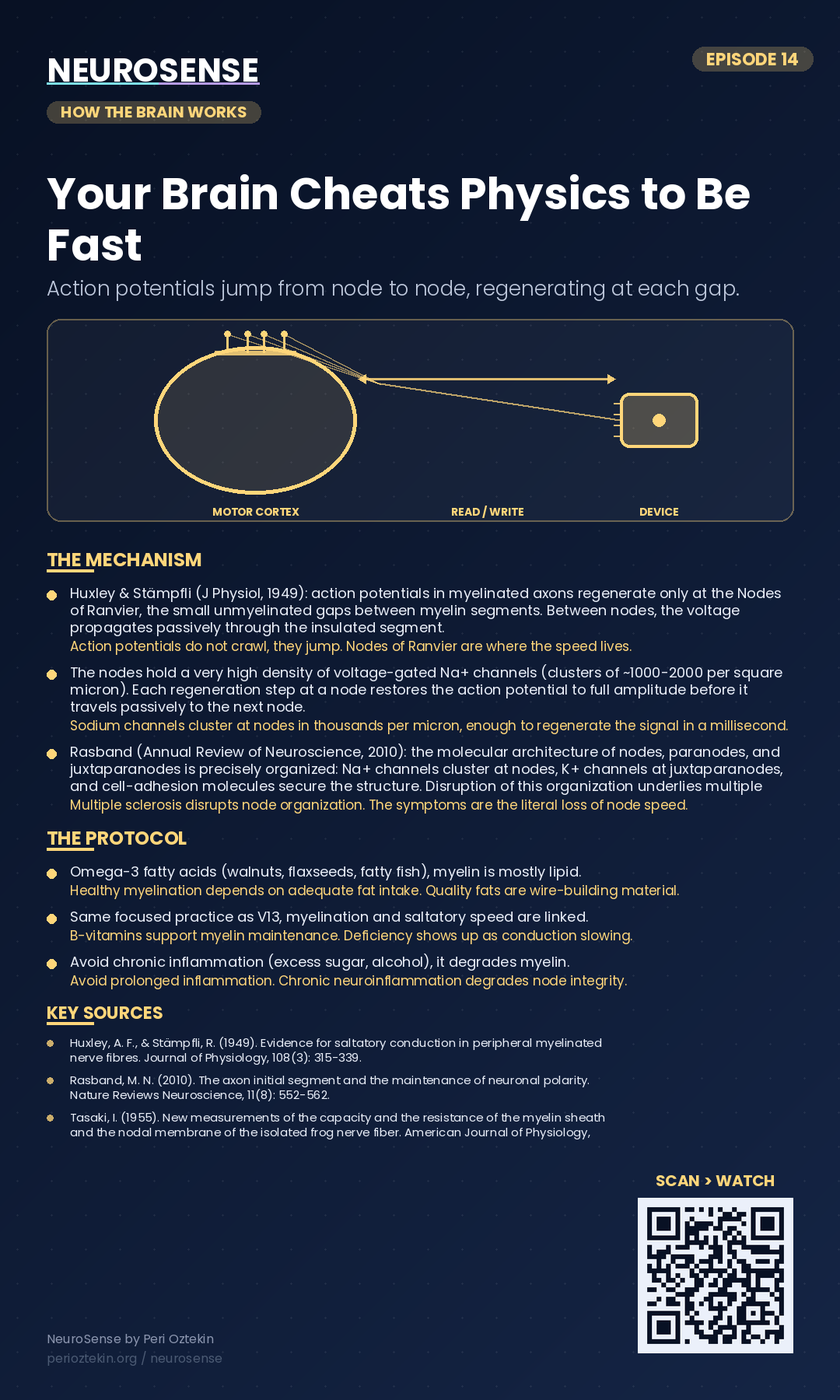
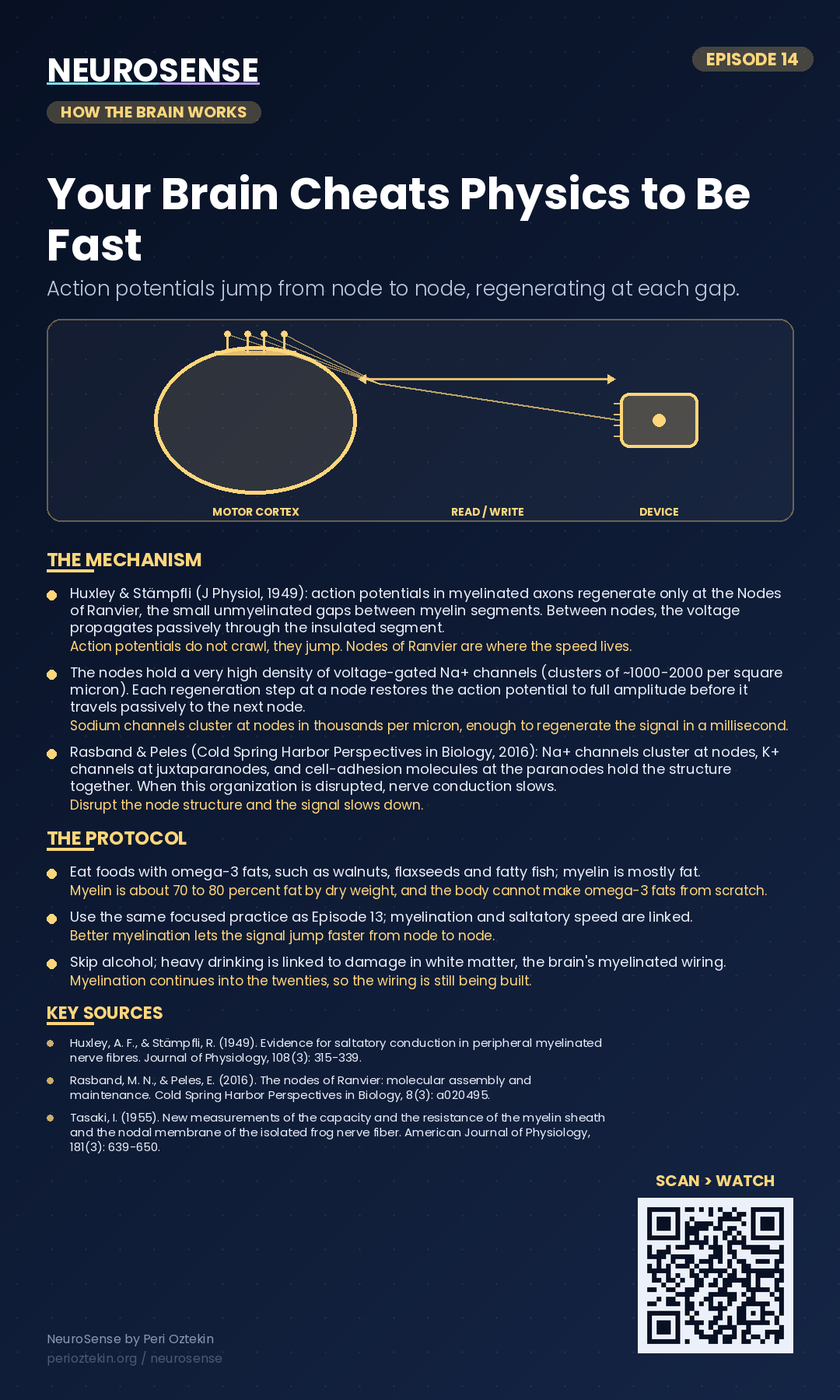
Fix sources and unsupported claims on NeuroSense episodes 11-17, 20, 30, 76, 89 and 99

diff --git a/neurosense/17/index.html b/neurosense/17/index.html
@@ -111,10 +111,10 @@
       <div class="ep-content">
         <h2>The Science</h2>
         <ul class="ep-list">
-          <li>Kjaer et al. (Cognitive Brain Research, 2002): PET imaging during Yoga Nidra meditation (a structured form of NSDR) measured a 65% increase in striatal dopamine release, comparable to that produced by stimulant drugs but without the receptor downregulation.</li>
-          <li>Datta &amp; MacLean (Neuroscience &amp; Biobehavioral Reviews, 2007): the consolidation literature shows that hippocampal replay of recently learned material occurs during quiet wakeful rest, not only during sleep. Brief intentional rest after learning measurably improves recall.</li>
-          <li>Mednick et al. (Nature Neuroscience, 2003): even short rest or daytime nap windows produce measurable performance improvements on perceptual and motor learning tasks. The brain consolidates whenever external input drops.</li>
-          <li>NSDR is not falling asleep. It is intentional quiet wakefulness with eyes closed, no input, and no attempt to sleep. The state is reliably entered through body-scan or breath-attention protocols.</li>
+          <li>Kjaer et al. (Cognitive Brain Research, 2002): in PET scans of eight experienced meditation teachers, guided Yoga Nidra (a structured form of NSDR) lowered raclopride binding in the ventral striatum by 7.9%, which the authors estimated as about a 65% rise in dopamine release.</li>
+          <li>Tambini, Ketz &amp; Davachi (Neuron, 2010): in quiet rest after learning, the hippocampus stayed more connected with a brain area that had processed the material, and stronger connections predicted better memory later that day.</li>
+          <li>Mednick, Nakayama &amp; Stickgold (Nature Neuroscience, 2003): a 60 to 90 minute daytime nap that contained both slow-wave and REM sleep improved a visual learning task about as much as a full night of sleep.</li>
+          <li>NSDR is not falling asleep. It is intentional quiet wakefulness with eyes closed, no input, and no attempt to sleep, usually guided by a body scan or attention on the breath. Plain quiet rest can help memory too: in Dewar et al. (Psychological Science, 2012), 10 minutes of eyes-closed rest after hearing a story improved recall a week later in older adults.</li>
         </ul>
         <div class="ep-protocol">
           <h3>The Protocol</h3>
@@ -127,7 +127,7 @@
       </div>
     </div>
 
-    <!-- ns-tryit:start (generated by build_tryit.py; edit content/017.json, not this block) -->
+<!-- ns-tryit:start (generated by build_tryit.py; edit content/017.json, not this block) -->
     <section class="ns-tryit" id="try-it" style="--t: #3a7ca5; --t-soft: #3a7ca512; --t-line: #3a7ca540;">
       <h2>See it in real life</h2>
 
@@ -137,7 +137,7 @@
           <h3>Six strides in a five-stride line</h3>
           <p>Banjo’s lease ends this month, so the county show is Isabel’s last one on him. Her trainer, Joanne, has spent weeks on one thing: counting the last three strides to each fence under her breath. In the morning it works. Two rounds, every jump met right out of stride.</p>
           <p>She spends the 90-minute lunch on an upside-down bucket by the trailer, scrolling. In her first afternoon round the outside line is set for five strides. They fit in six, the last a choppy chip at the base of the oxer, and she’s late on the lead change after it. “You had that line this morning,” Joanne says at the gate.</p>
-          <p>After a morning of practice, her brain can replay what she learned in quiet rest as well as in sleep, whenever outside input drops. Ninety minutes of videos never let it drop. Non-sleep deep rest makes that quiet on purpose: eyes closed, no input, awake, not trying to sleep. It isn’t a nap, and it doesn’t replace a night’s sleep.</p>
+          <p>After a morning of practice, her brain keeps working on what she learned during quiet rest as well as during sleep, and a steady stream of new input gets in the way. Ninety minutes of videos was a stream that never let up. Non-sleep deep rest makes that quiet on purpose: eyes closed, no input, awake, not trying to sleep. It isn’t a nap, and it doesn’t replace a night’s sleep.</p>
           <p>At 2:30 she gives her phone to her mom, who will knock at 2:50, and lies down across the truck’s back seat. Eyes closed, she moves her attention slowly up from her toes. The announcer calls numbers and a horse whinnies two aisles over. Whenever her mind slides back to the oxer, she notices and picks up where she left off. At the knock she sits up slowly and goes to get Banjo.</p>
           <p>In her last class, the medal, the outside line rides in five. Both lead changes come on time, and all Joanne says at the gate is “There she is.” Isabel places fourth and clips the white ribbon to Banjo’s stall door.</p>
         </div>
@@ -204,7 +204,7 @@
   stroke-width="2"
   stroke-linecap="round"
   stroke-linejoin="round"
-><path d="M15 14c.2-1 .7-1.7 1.5-2.5 1-.9 1.5-2.2 1.5-3.5A6 6 0 0 0 6 8c0 1 .2 2.2 1.5 3.5.7.7 1.3 1.5 1.5 2.5" /><path d="M9 18h6" /><path d="M10 22h4" /></svg></span><p><strong>What you&rsquo;ll probably notice.</strong> Somewhere between your feet and the top of your head, your attention probably drifted off several times, and that’s fine: drifting and coming back is part of the scan. Many people also notice small sounds they had tuned out, or lose track of how long it has been. You were awake, eyes closed, with nothing coming in, which is the state in the Protocol, and right after a block of practice or learning, that quiet is when the brain can replay what you just did.</p></div>
+><path d="M15 14c.2-1 .7-1.7 1.5-2.5 1-.9 1.5-2.2 1.5-3.5A6 6 0 0 0 6 8c0 1 .2 2.2 1.5 3.5.7.7 1.3 1.5 1.5 2.5" /><path d="M9 18h6" /><path d="M10 22h4" /></svg></span><p><strong>What you&rsquo;ll probably notice.</strong> Somewhere between your feet and the top of your head, your attention probably drifted off several times, and that’s fine: drifting and coming back is part of the scan. Many people also notice small sounds they had tuned out, or lose track of how long it has been. You were awake, eyes closed, with nothing coming in, which is the state in the Protocol, and right after a block of practice or learning, that quiet gives the brain a chance to keep working on what you just did.</p></div>
       </div>
 
       <div class="ns-plan">
@@ -343,8 +343,9 @@
       <h3>Sources</h3>
       <ul>
           <li>Kjaer, T. W., Bertelsen, C., Piccini, P., Brooks, D., Alving, J., &amp; Lou, H. C. (2002). Increased dopamine tone during meditation-induced change of consciousness. Cognitive Brain Research, 13(2): 255-259.</li>
-          <li>Datta, S., &amp; MacLean, R. R. (2007). Neurobiological mechanisms for the regulation of mammalian sleep-wake behavior: reinterpretation of historical evidence and inclusion of contemporary cellular and molecular evidence. Neuroscience &amp; Biobehavioral Reviews, 31(5): 775-824.</li>
+          <li>Tambini, A., Ketz, N., &amp; Davachi, L. (2010). Enhanced brain correlations during rest are related to memory for recent experiences. Neuron, 65(2): 280-290.</li>
           <li>Mednick, S., Nakayama, K., &amp; Stickgold, R. (2003). Sleep-dependent learning: a nap is as good as a night. Nature Neuroscience, 6(7): 697-698.</li>
+          <li>Dewar, M., Alber, J., Butler, C., Cowan, N., &amp; Della Sala, S. (2012). Brief wakeful resting boosts new memories over the long term. Psychological Science, 23(9): 955-960.</li>
       </ul>
     </div>
 

diff --git a/neurosense/99/index.html b/neurosense/99/index.html
@@ -111,9 +111,9 @@
       <div class="ep-content">
         <h2>The Science</h2>
         <ul class="ep-list">
-          <li>Chang et al. (2012), PNAS: in the primate social brain, mutual gaze and oxytocin shift social decision-making and trust.</li>
-          <li>About two seconds of real mutual eye contact is linked to a small oxytocin release in both people.</li>
-          <li>Oxytocin softens the threat response and increases the salience of social cues, so connection becomes two-way.</li>
+          <li>Chang et al. (2015), PNAS: in rhesus monkeys, amygdala neurons tracked rewards given to themselves and to others, and oxytocin delivered into the amygdala slightly increased generous choices and looks toward the partner.</li>
+          <li>Binetti et al. (2016), Royal Society Open Science: when more than 400 museum visitors watched an actor&#x27;s gaze, the eye contact they preferred lasted about 3.3 seconds on average; much longer was judged too long.</li>
+          <li>Kanat et al. (2014), Brain Research: in human studies, oxytocin can dampen the amygdala&#x27;s response to threatening social cues, and Guastella et al. (2008) found that a nasal dose made men look more at the eye region of faces.</li>
           <li>Eye contact feels warm with one person and like too much with another, and a lot of that is timing.</li>
         </ul>
         <div class="ep-protocol">
@@ -128,7 +128,7 @@
       </div>
     </div>
 
-    <!-- ns-tryit:start (generated by build_tryit.py; edit content/099.json, not this block) -->
+<!-- ns-tryit:start (generated by build_tryit.py; edit content/099.json, not this block) -->
     <section class="ns-tryit" id="try-it" style="--t: #d98e04; --t-soft: #d98e0412; --t-line: #d98e0440;">
       <h2>See it in real life</h2>
 
@@ -138,7 +138,7 @@
           <h3>Two seconds at the check-in table</h3>
           <p>By the time the doors open, the line for the food pantry runs up the church basement stairs. Santi works the check-in table on Saturday mornings: find the name, hand over a number, point to the bags. He’s fast, and nobody says much to him.</p>
           <p>Two weeks ago Mr. Ellis asked him twice whether there was rice instead of pasta, and Santi answered the clipboard both times. Mr. Ellis took the pasta. Ms. Ruth, who runs the produce table, told him afterward, “Look at people, honey.” So last Saturday he did, steadily, for as long as anyone talked, and a woman took her number and stepped back from the table.</p>
-          <p>In the social brain, mutual gaze and oxytocin, a chemical tied to trust, help soften the threat response and make social cues stand out, so the signal runs both ways. Timing carries a lot of it. Too little eye contact reads as distant, and too much reads as a stare.</p>
+          <p>Oxytocin, a hormone tied to bonding, is part of this: in studies, it quiets the brain’s alarm response to threatening faces and draws people’s eyes toward other people’s eyes. And most people find eye contact comfortable for a few seconds, around three on average. Timing carries a lot of it. Too little eye contact reads as distant, and too much reads as a stare.</p>
           <p>This Saturday he tries it in short pieces. When someone reaches the table, he looks up for about two seconds, the length of a “good morning,” with his face loose, then goes back to the list. He does it again when he thanks them for waiting, and when someone starts to talk, he puts the pen down and looks up to listen, glancing away now and then. People who keep their eyes down get a good morning anyway.</p>
           <p>When Mr. Ellis reaches the table, Santi looks up, and Mr. Ellis says, “Any rice today?” Santi catches it the first time, swaps the bag himself, and tells Mr. Ellis his name. By noon he knows four names, and on the way out Mr. Ellis says, “See you next week, Santi.”</p>
         </div>
@@ -345,7 +345,10 @@
     <div class="ep-sources">
       <h3>Sources</h3>
       <ul>
-          <li>Chang SW, et al. Neural mechanisms of social decision-making in the primate amygdala. PNAS. 2012.</li>
+          <li>Chang SWC, Fagan NA, Toda K, Utevsky AV, Pearson JM, Platt ML. Neural mechanisms of social decision-making in the primate amygdala. PNAS. 2015;112(52):16012-16017.</li>
+          <li>Binetti N, Harrison C, Coutrot A, Johnston A, Mareschal I. Pupil dilation as an index of preferred mutual gaze duration. Royal Society Open Science. 2016;3(7):160086.</li>
+          <li>Guastella AJ, Mitchell PB, Dadds MR. Oxytocin increases gaze to the eye region of human faces. Biological Psychiatry. 2008;63(1):3-5.</li>
+          <li>Kanat M, Heinrichs M, Domes G. Oxytocin and the social brain: neural mechanisms and perspectives in human research. Brain Research. 2014;1580:160-171.</li>
       </ul>
     </div>
 

diff --git a/neurosense/14/index.html b/neurosense/14/index.html
@@ -113,15 +113,15 @@
         <ul class="ep-list">
           <li>Huxley &amp; Stämpfli (J Physiol, 1949): action potentials in myelinated axons regenerate only at the Nodes of Ranvier, the small unmyelinated gaps between myelin segments. Between nodes, the voltage propagates passively through the insulated segment.</li>
           <li>The nodes hold a very high density of voltage-gated Na+ channels (clusters of ~1000-2000 per square micron). Each regeneration step at a node restores the action potential to full amplitude before it travels passively to the next node.</li>
-          <li>Rasband (Annual Review of Neuroscience, 2010): the molecular architecture of nodes, paranodes, and juxtaparanodes is precisely organized: Na+ channels cluster at nodes, K+ channels at juxtaparanodes, and cell-adhesion molecules secure the structure. Disruption of this organization underlies multiple sclerosis symptoms.</li>
+          <li>Rasband &amp; Peles (Cold Spring Harbor Perspectives in Biology, 2016): Na+ channels cluster at nodes, K+ channels at juxtaparanodes, and cell-adhesion molecules at the paranodes hold the structure together. When this organization is disrupted, nerve conduction slows.</li>
           <li>Without saltatory conduction, the same axon would need to be approximately 330 times wider to achieve the same conduction velocity. Saltatory conduction is what allows fast reflexes to coexist with thin, energetically affordable axons.</li>
         </ul>
         <div class="ep-protocol">
           <h3>The Protocol</h3>
           <ul class="ep-list">
-          <li>Omega-3 fatty acids (walnuts, flaxseeds, fatty fish), myelin is mostly lipid.</li>
-          <li>Same focused practice as V13, myelination and saltatory speed are linked.</li>
-          <li>Avoid chronic inflammation (excess sugar, alcohol), it degrades myelin.</li>
+          <li>Eat foods with omega-3 fats, such as walnuts, flaxseeds and fatty fish; myelin is mostly fat.</li>
+          <li>Use the same focused practice as Episode 13; myelination and saltatory speed are linked.</li>
+          <li>Skip alcohol; heavy drinking is linked to damage in white matter, the brain&#x27;s myelinated wiring.</li>
           </ul>
         </div>
       </div>
@@ -334,7 +334,7 @@
       <h3>Sources</h3>
       <ul>
           <li>Huxley, A. F., &amp; Stämpfli, R. (1949). Evidence for saltatory conduction in peripheral myelinated nerve fibres. Journal of Physiology, 108(3): 315-339.</li>
-          <li>Rasband, M. N. (2010). The axon initial segment and the maintenance of neuronal polarity. Nature Reviews Neuroscience, 11(8): 552-562.</li>
+          <li>Rasband, M. N., &amp; Peles, E. (2016). The nodes of Ranvier: molecular assembly and maintenance. Cold Spring Harbor Perspectives in Biology, 8(3): a020495.</li>
           <li>Tasaki, I. (1955). New measurements of the capacity and the resistance of the myelin sheath and the nodal membrane of the isolated frog nerve fiber. American Journal of Physiology, 181(3): 639-650.</li>
       </ul>
     </div>

diff --git a/neurosense/16/index.html b/neurosense/16/index.html
@@ -113,15 +113,15 @@
         <ul class="ep-list">
           <li>Voltage-gated ion channels are membrane proteins with charged voltage-sensing domains. Membrane voltage shifts physically pull or push these charged regions, changing the protein conformation and thereby gating ion flow through the pore.</li>
           <li>Sigworth &amp; Neher (Nature, 1980): single-channel patch-clamp recordings revealed that individual voltage-gated channels do not gate deterministically but stochastically: at any given voltage, each channel has a probability of being open. Macroscopic currents emerge as statistical averages across thousands of channels.</li>
-          <li>Catterall (Neuron, 2014): voltage-gated Na+, K+, and Ca2+ channels share a conserved architecture of four homologous domains, each with six transmembrane segments. The S4 segment carries positively charged residues that move across the membrane field to open the channel.</li>
+          <li>Catterall (Experimental Physiology, 2014): sodium channels are built from four homologous domains, each with six transmembrane segments, a design calcium channels share. The S4 segment&#x27;s positive charges move across the membrane field to open the channel.</li>
           <li>Channel diversity matters: K+ channel families alone include dozens of subtypes with different voltage thresholds, kinetics, and modulation. This diversity shapes the firing patterns that distinguish one neuron type from another.</li>
         </ul>
         <div class="ep-protocol">
           <h3>The Protocol</h3>
           <ul class="ep-list">
-          <li>Box breathing 5 min daily (4·4·4·4), drops cortisol, preserves channel sensitivity.</li>
-          <li>Deep sleep, most channel reset/recovery happens here.</li>
-          <li>Limit chronic high-stimulant load, long-term it shifts channel thresholds.</li>
+          <li>Sketch one channel: a doorway in the membrane with plus charges on its hinge, and an arrow showing voltage pushing or pulling those charges until the protein changes shape.</li>
+          <li>Learn the two rules: at any voltage, each channel has some chance of being open, and a neuron runs on the average of thousands of them.</li>
+          <li>Test it on a skeptic: flip 20 coins, then 50, show how the share of heads steadies as the number grows, and ask them to explain it back.</li>
           </ul>
         </div>
       </div>

diff --git a/neurosense/89/index.html b/neurosense/89/index.html
@@ -111,9 +111,9 @@
       <div class="ep-content">
         <h2>The Science</h2>
         <ul class="ep-list">
-          <li>Walker et al. (2002), Nature Neuroscience: sleep-dependent processing strengthens new learning across the sleep-wake cycle.</li>
-          <li>In deep non-REM sleep, the brain fires quick bursts called sleep spindles.</li>
-          <li>Each burst helps move new learning from short-term holding into long-term storage, so sleep decides what sticks.</li>
+          <li>Walker et al. (2002), Neuron: after a night of sleep, people performed a newly learned finger-tapping sequence about 20% faster with no loss of accuracy, while the same hours awake gave no real gain; the improvement tracked stage 2 non-REM sleep.</li>
+          <li>In non-REM sleep, especially stage 2, the brain fires quick bursts called sleep spindles.</li>
+          <li>Diekelmann &amp; Born (2010), Nature Reviews Neuroscience: spindles, working with slow oscillations and ripples, help replay new memories and move them from the hippocampus into long-term storage in the cortex, so sleep helps decide what sticks.</li>
           <li>Studying at night that feels solid can be fuzzy by morning.</li>
         </ul>
         <div class="ep-protocol">
@@ -343,7 +343,8 @@
     <div class="ep-sources">
       <h3>Sources</h3>
       <ul>
-          <li>Walker MP, et al. Cognitive flexibility across the sleep-wake cycle. Nature Neuroscience. 2002.</li>
+          <li>Walker MP, Brakefield T, Morgan A, Hobson JA, Stickgold R. Practice with sleep makes perfect: sleep-dependent motor skill learning. Neuron. 2002;35(1):205-211.</li>
+          <li>Diekelmann S, Born J. The memory function of sleep. Nature Reviews Neuroscience. 2010;11(2):114-126.</li>
       </ul>
     </div>
 

diff --git a/neurosense/30/index.html b/neurosense/30/index.html
@@ -111,9 +111,9 @@
       <div class="ep-content">
         <h2>The Science</h2>
         <ul class="ep-list">
-          <li>Hochberg et al. (Nature, 2012): people with tetraplegia controlled a robotic arm to drink coffee using only thought, via a 96-electrode array in the motor cortex. First-of-its-kind demonstration.</li>
-          <li>Pandarinath et al. (eLife, 2017): intracortical BMI users achieved typing rates of ~40 words/min using thought-controlled cursors, substantially faster than any prior assistive tech.</li>
-          <li>Willett et al. (Nature, 2021): a speech-impaired participant typed at ~90 characters/min by imagining handwriting, decoded from motor cortex activity via recurrent neural network. ~94% raw accuracy.</li>
+          <li>Hochberg et al. (Nature, 2012): two people with tetraplegia used a 96-channel electrode array in the motor cortex to reach and grasp with robotic arms, and one drank coffee from a bottle using only thought. First-of-its-kind demonstration.</li>
+          <li>Pandarinath et al. (eLife, 2017): three people with paralysis typed with a thought-controlled cursor at up to about 39 correct characters per minute, close to 8 words per minute, 1.4 to 4.2 times faster than earlier brain-computer interfaces.</li>
+          <li>Willett et al. (Nature, 2021): a participant whose hand was paralyzed by a spinal cord injury typed about 90 characters per minute by imagining handwriting, decoded from motor cortex activity by a recurrent neural network, with 94.1% raw accuracy.</li>
           <li>Longer-term: bidirectional brain-AI bandwidth, read AND write. Highly contested, both scientifically and ethically.</li>
         </ul>
         <div class="ep-protocol">

diff --git a/neurosense/76/index.html b/neurosense/76/index.html
@@ -111,8 +111,8 @@
       <div class="ep-content">
         <h2>The Science</h2>
         <ul class="ep-list">
-          <li>Arzi et al. / Sobel (2015), Nature: odor takes a more direct route into olfactory and limbic regions than vision or hearing.</li>
-          <li>Those regions sit next to the amygdala and hippocampus, so scent can tag a memory with feeling.</li>
+          <li>Herz (Brain Sciences, 2016): other senses pass through the thalamus before reaching the cortex, but smell is processed first in the amygdala and hippocampal area, the brain&#x27;s emotion and memory hub.</li>
+          <li>Herz et al. (Neuropsychologia, 2004): in a small brain-imaging study of five women, the smell of a perfume tied to a personal memory activated the amygdala and hippocampal regions more than a photo of the same perfume, and felt more emotional.</li>
           <li>That anatomy is why a hallway, hoodie, soap, or snack can feel like a time machine.</li>
           <li>The memory may feel vivid even if it is incomplete.</li>
         </ul>
@@ -344,7 +344,8 @@
     <div class="ep-sources">
       <h3>Sources</h3>
       <ul>
-          <li>Arzi A, et al. (Sobel N). Olfactory-triggered memories in the human brain. Nature. 2015.</li>
+          <li>Herz RS. The role of odor-evoked memory in psychological and physiological health. Brain Sciences. 2016;6(3):22.</li>
+          <li>Herz RS, Eliassen J, Beland S, Souza T. Neuroimaging evidence for the emotional potency of odor-evoked memory. Neuropsychologia. 2004;42(3):371-378.</li>
       </ul>
     </div>
 

diff --git a/neurosense/20/index.html b/neurosense/20/index.html
@@ -119,9 +119,9 @@
         <div class="ep-protocol">
           <h3>The Protocol</h3>
           <ul class="ep-list">
-          <li>Identify one daily imbalance (sleep, diet, stress) and align it with your biology.</li>
-          <li>Audit your default state, if it&#x27;s stress, your neurons live closer to the firing threshold than they should.</li>
-          <li>Consistency over intensity. Your &#x27;equilibrium potential&#x27; is built from steady habits, not heroics.</li>
+          <li>Name the two pushes for any ion: concentration pushes one way and charge pulls the other; the Nernst potential is the voltage where they cancel.</li>
+          <li>Draw the number line: plus 60 for sodium, minus 65 for chloride, minus 90 for potassium, and shade the stretch where a resting neuron sits.</li>
+          <li>Remember the weighting: a neuron rests closest to the ions that cross its membrane most easily.</li>
           </ul>
         </div>
       </div>

diff --git a/neurosense/11/index.html b/neurosense/11/index.html
@@ -119,9 +119,9 @@
         <div class="ep-protocol">
           <h3>The Protocol</h3>
           <ul class="ep-list">
-          <li>Potassium-rich foods (bananas, leafy greens, beans, potatoes), K+ is the dominant ion at rest.</li>
-          <li>Magnesium (pumpkin seeds, spinach, almonds) supports the ATPase that maintains the gradient.</li>
-          <li>Hydration matters, every ion concentration is per liter of water.</li>
+          <li>Picture the imbalance: a full bag of rice with one grain outside it. About 1 ion in 100,000 crossing the membrane is enough to set the resting voltage.</li>
+          <li>Name the open door: at rest, potassium leaks out through channels that stay open, taking plus charges with it, so the inside settles near minus 70 millivolts.</li>
+          <li>Say it from memory tomorrow in three sentences; whatever you leave out is what to review.</li>
           </ul>
         </div>
       </div>

diff --git a/neurosense/13/index.html b/neurosense/13/index.html
@@ -119,9 +119,9 @@
         <div class="ep-protocol">
           <h3>The Protocol</h3>
           <ul class="ep-list">
-          <li>Deep-focus blocks (60-90 min) with no interruption. Sub-threshold practice doesn&#x27;t trigger wrapping.</li>
-          <li>Prioritize sleep, myelin synthesis peaks in deep sleep.</li>
-          <li>Repetition of the SAME circuit beats variety. Plasticity is path-specific.</li>
+          <li>Practice in focused blocks of 60 to 90 minutes with no interruptions, on the one skill you want to improve.</li>
+          <li>Sleep well on practice days; sleep helps lock in the gains from motor practice.</li>
+          <li>Repeat the exact movement you want to get faster; practice-driven white matter changes show up in the pathways the skill uses.</li>
           </ul>
         </div>
       </div>

diff --git a/neurosense/15/index.html b/neurosense/15/index.html
@@ -119,9 +119,9 @@
         <div class="ep-protocol">
           <h3>The Protocol</h3>
           <ul class="ep-list">
-          <li>Hydration: dehydration shifts ion concentrations, destabilizing the threshold.</li>
-          <li>Avoid acute stimulant spikes (sugar binges, caffeine overload), they shift firing threshold.</li>
-          <li>Sleep, voltage gates reset overnight.</li>
+          <li>Draw the spike from memory: rest at minus 70, threshold at minus 55, a sharp rise to plus 30, then a dip below rest before it settles.</li>
+          <li>Label the two doors: sodium in on the way up, potassium out on the way down.</li>
+          <li>Learn the rule that trips people up: a stronger input makes more spikes, not bigger ones.</li>
           </ul>
         </div>
       </div>

diff --git a/neurosense/12/index.html b/neurosense/12/index.html
@@ -121,7 +121,7 @@
           <ul class="ep-list">
           <li>Steady Glucose: Use complex carbohydrates for a steady fuel drip, not sugar spikes.</li>
           <li>Deep Sleep: ATP replenishment peaks during slow-wave sleep.</li>
-          <li>Metabolic Recovery: Take deliberate breaks to allow the pump to maintain the gradient.</li>
+          <li>Steady Supply: The pump runs nonstop whether you are studying or resting, so steady meals through the day matter more than a special snack at study time.</li>
           </ul>
         </div>
       </div>
